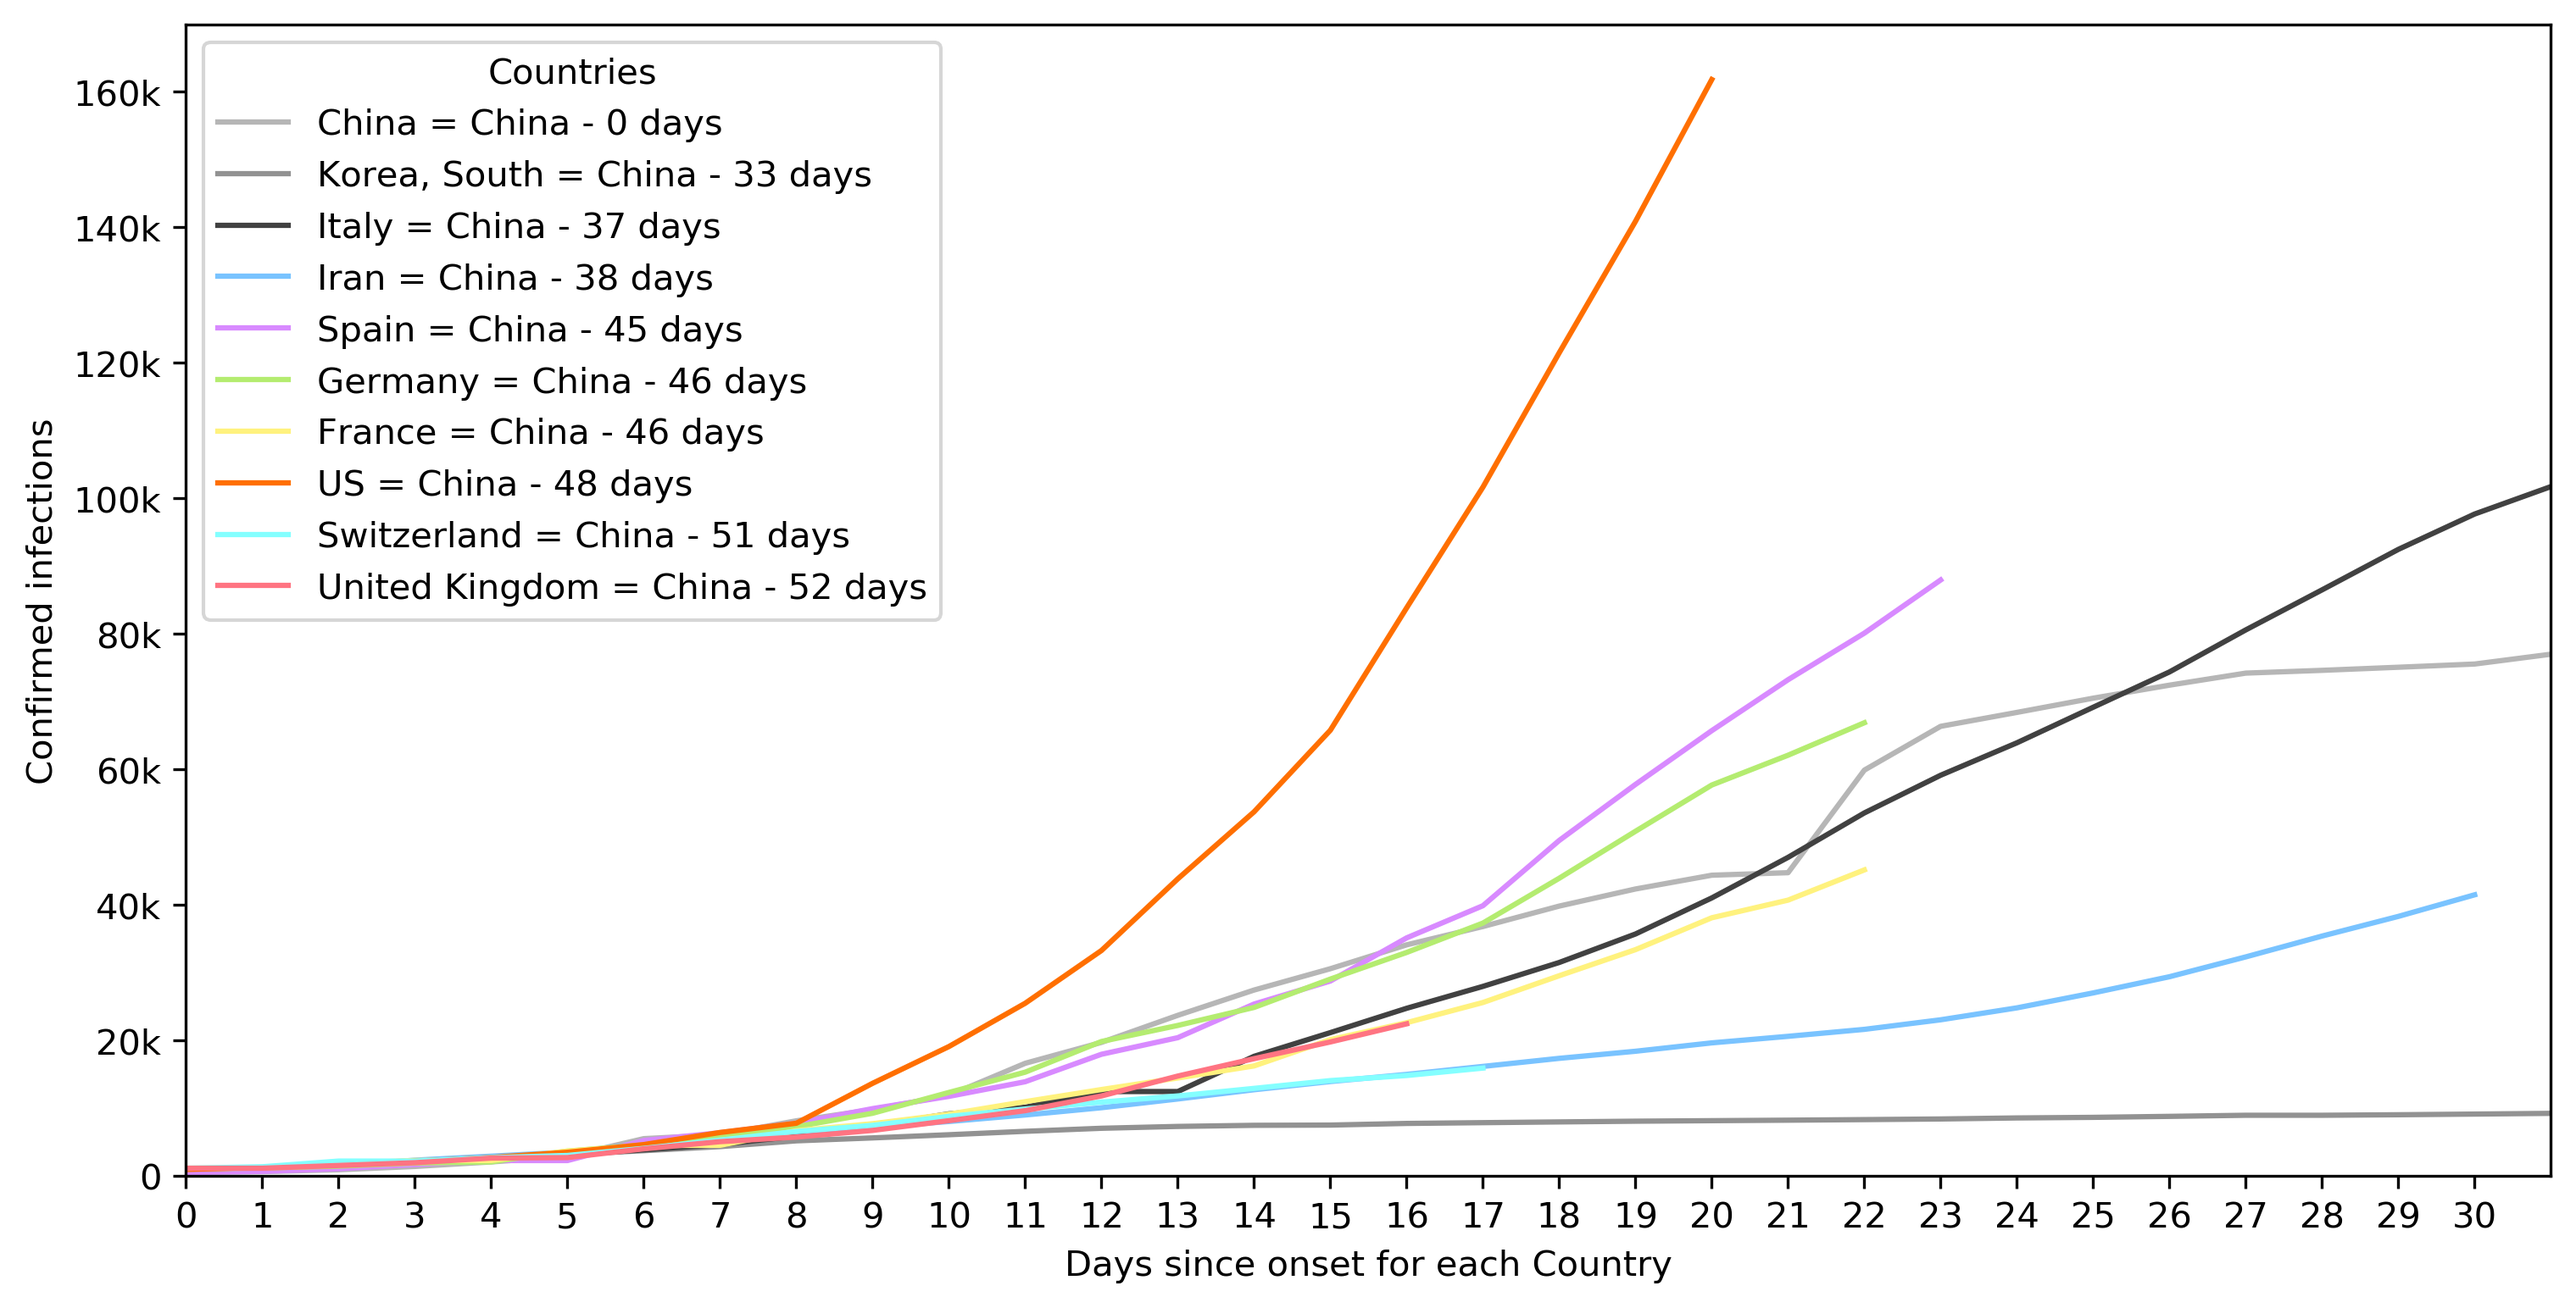
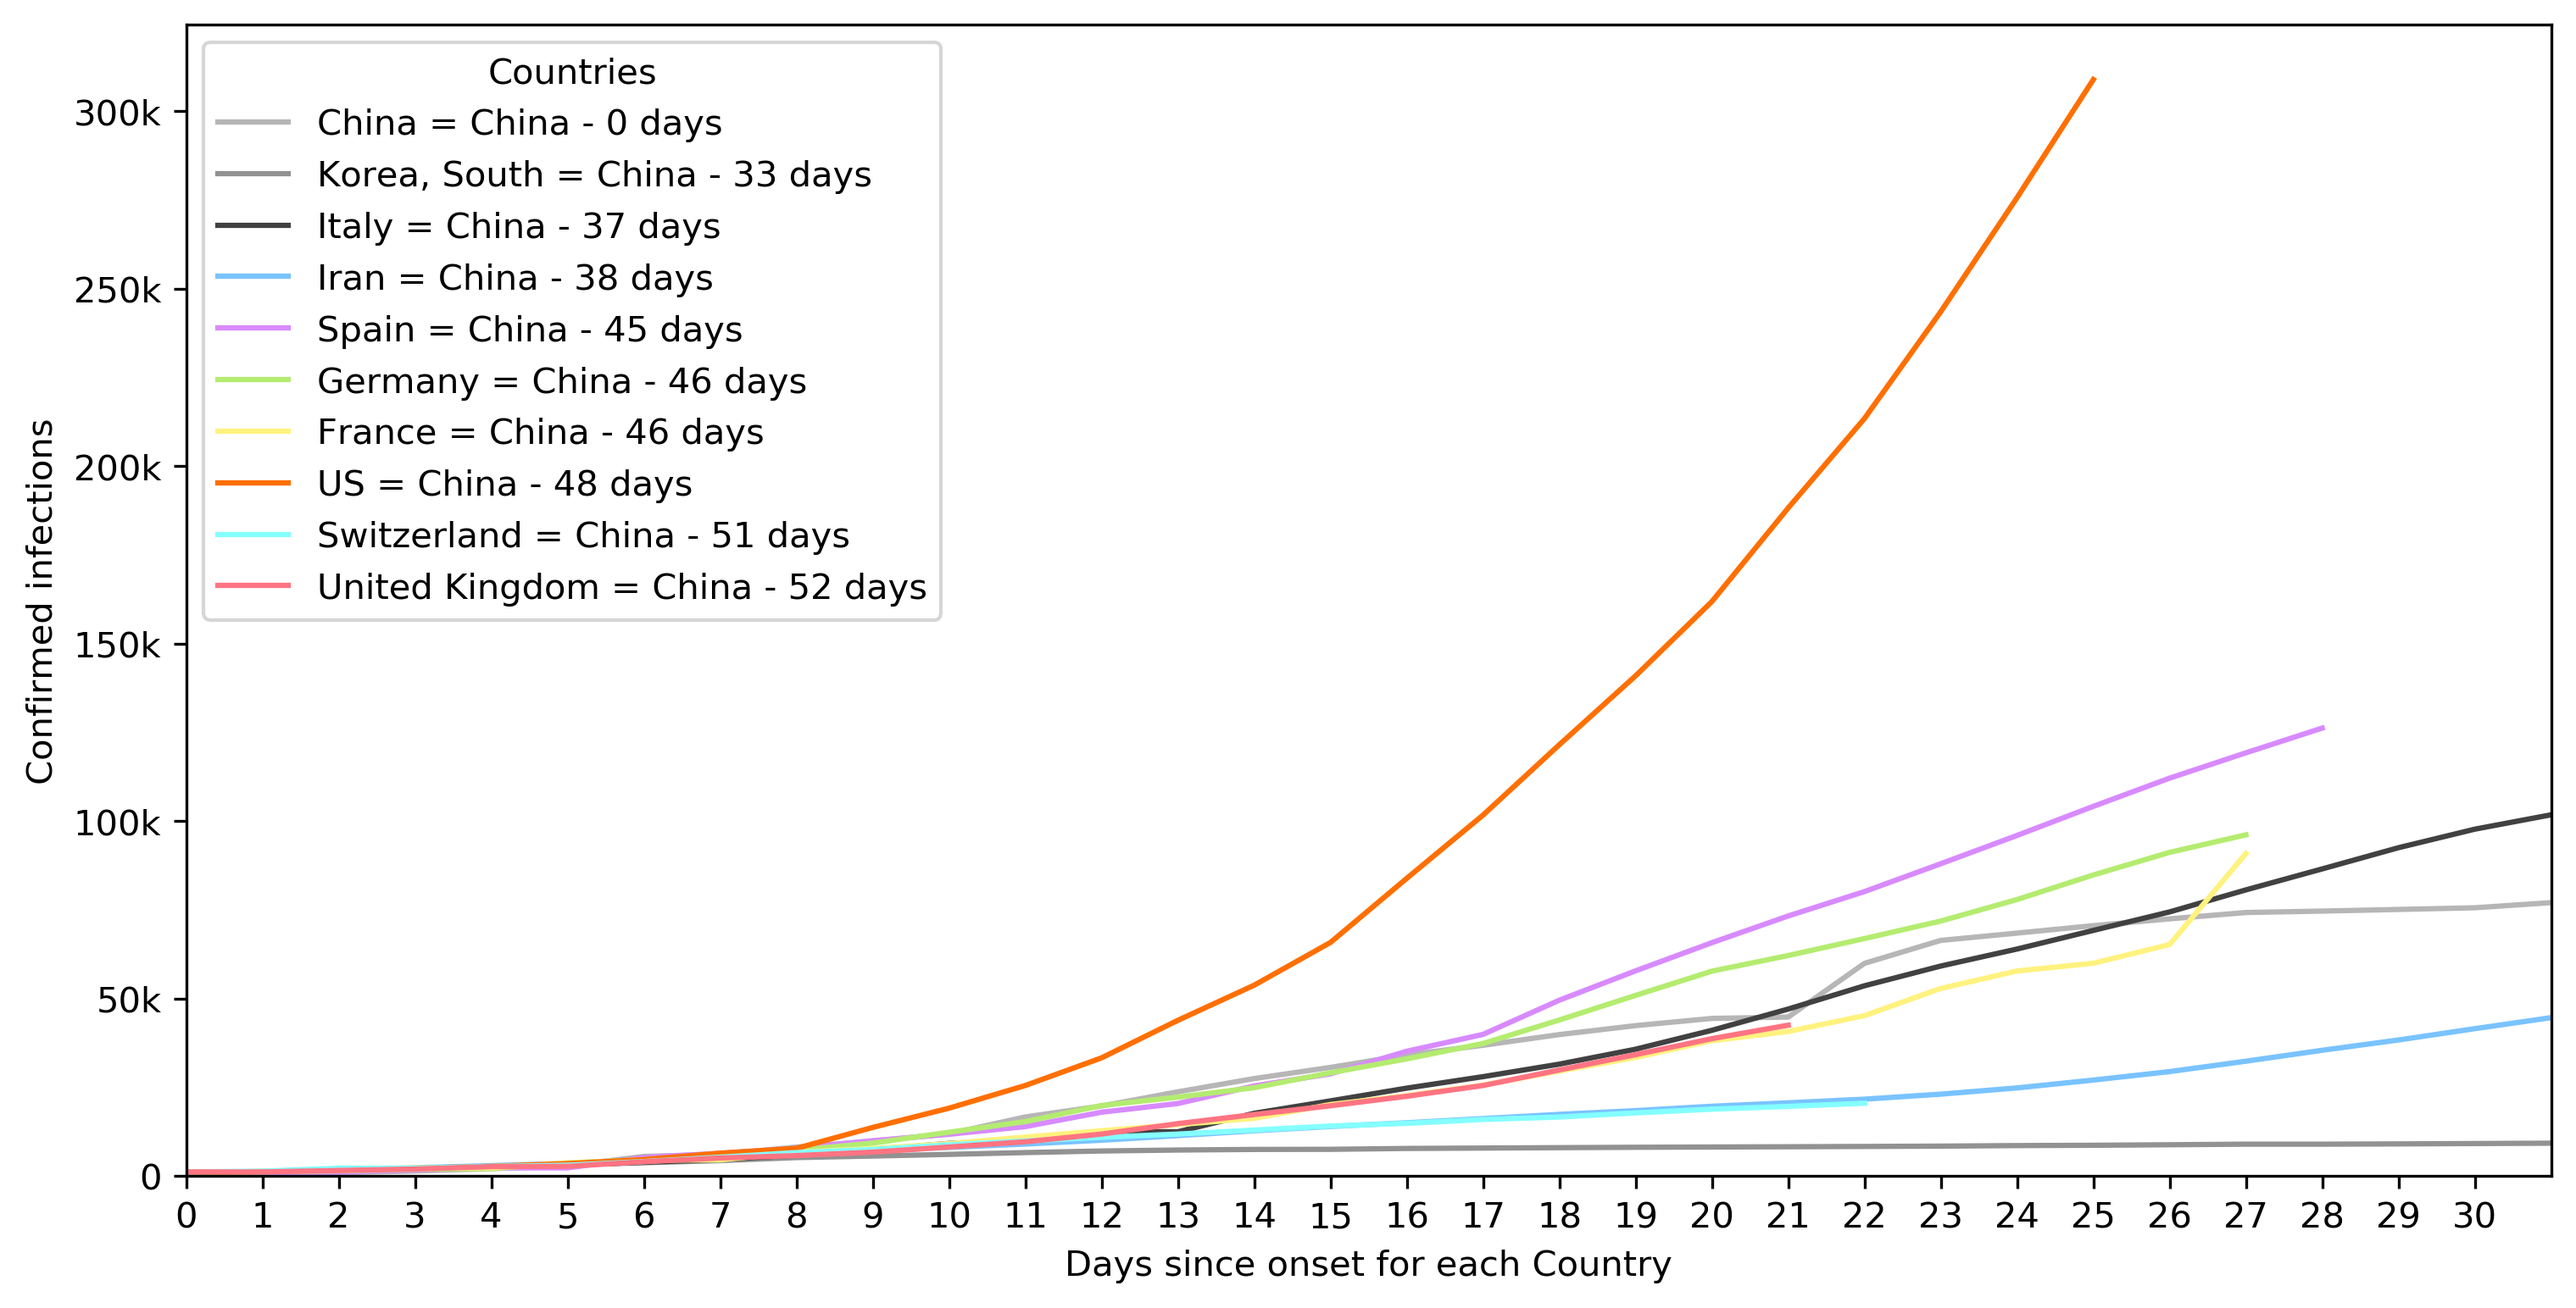
update

diff --git a/plot_trends.py b/plot_trends.py
@@ -107,21 +107,21 @@ if should_print:
 plt.show()
 
 #%% compute model estimated growth curves
-def sigmoid (x, A, slope, offset):
-  return A / (1 + np.exp ((x - (offset + 17.75)) / slope))
+def sigmoid (x, A, B, slope, offset):
+  return A / (1 + (1 + B * x) * np.exp ((x - (offset + 17.75)) / slope))
 
 def fit_to_sigmoid (df, offset, all_dates):
   dates = (df['date'] - start_date) / np.timedelta64(1, 'D')
   p, _ = curve_fit(
-    lambda x, A, slope: sigmoid(x, A, slope, offset),
+    lambda x, A, B, slope: sigmoid(x, A, B, slope, offset),
     dates,
     df['count'],
-    p0=[80000, -5],
+    p0=[80000, 0.01, -5],
     bounds=(
-      [-np.inf, -np.inf],
-      [np.inf, -0.01]
+      [-np.inf, 0, -np.inf],
+      [np.inf, 1, -0.01]
     ),
-    maxfev=5000,
+    maxfev=5000
   )
   return sigmoid((all_dates - start_date) / np.timedelta64(1, 'D'), *p, offset), p
 
@@ -134,8 +134,8 @@ for d in dat:
   print(country_name, *p, offset)
 
 #%% plot summary table
-china_slope = dat[0]['p'][1]
-growth_rate_relative_to_china = lambda p: china_slope/p[1]
+china_slope = dat[0]['p'][2]
+growth_rate_relative_to_china = lambda p: china_slope/p[2]
 
 table_data = []
 for d in dat:
@@ -198,7 +198,7 @@ for d in dat:
   )
 
 # plots the now line
-y_max = 250000
+y_max = 500000
 now = np.datetime64('now').astype('datetime64[D]') - np.timedelta64(1, 'D')
 plt.vlines(now, ymin=0, ymax=y_max, colors=colors['very_light_gray'], linestyles='dashed')
 plt.annotate('Actual', xy=(now - np.timedelta64(1, 'D'), y_max - 5000), ha='right', va='top')
@@ -215,7 +215,7 @@ plt.ylabel('Confirmed infections')
 
 plt.grid(color=colors['very_light_gray'])
 
-plt.legend(title='Countries', loc='lower right')
+plt.legend(title='Countries', loc='upper left')
 
 if should_print:
   plt.savefig(dirname / f'figures/growth_estimations.png', bbox_inches='tight', dpi=300, format='png')

diff --git a/README.md b/README.md
@@ -1,9 +1,9 @@
 # COVID-19 analysis
 
-Growth rate of confirmed infections 
+Confirmed infections over time
 ![Growth rate](figures/growth_rate.png)
 
-Model estimates of growth over time of confirmed infections
+Model estimates of confirmed infections over time
 ![Growth estimations](figures/growth_estimations.png)
 
 Summary by country
@@ -12,7 +12,10 @@ Summary by country
 **Notes**
 
 - Data is from <https://github.com/CSSEGISandData/COVID-19>
-- Last updated on 3/20/2020
+- Model predictions are based on the best-fit sigmoidal model for each country:
+    <img src="https://render.githubusercontent.com/render/math?math=%5Cfrac%7BA%7D%7B(1%20%2B%20Bt)e%5E%7B%5Calpha(t%20-%20t_0)%7D%7D">
+
+    where <img src="https://render.githubusercontent.com/render/math?math=A%2C%20B%2C%20%5Calpha%2C%20t_0"> are fit from the existing data.
 
 ## Initial project setup
 
